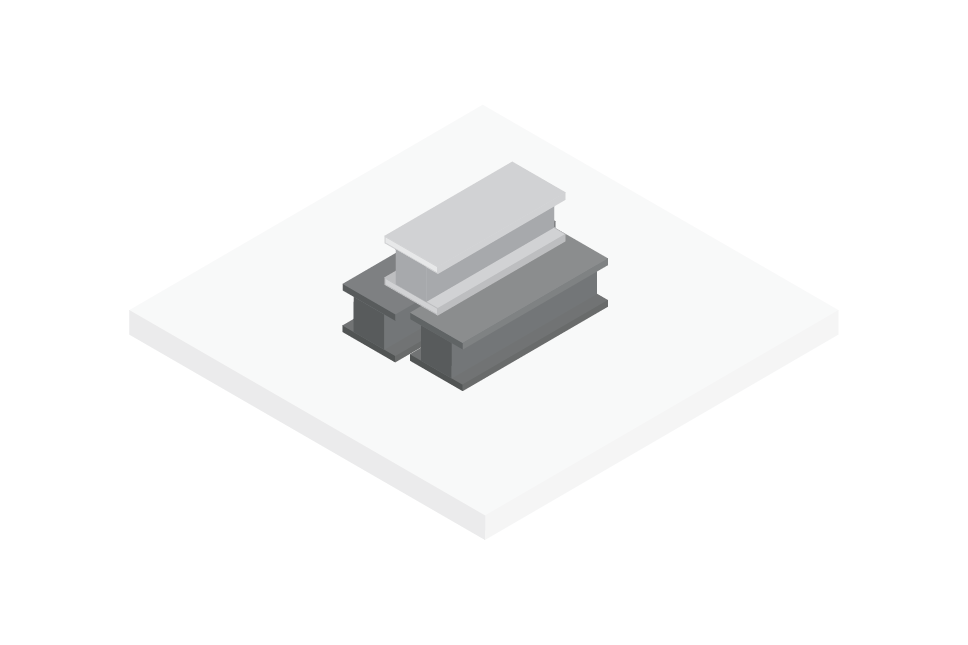
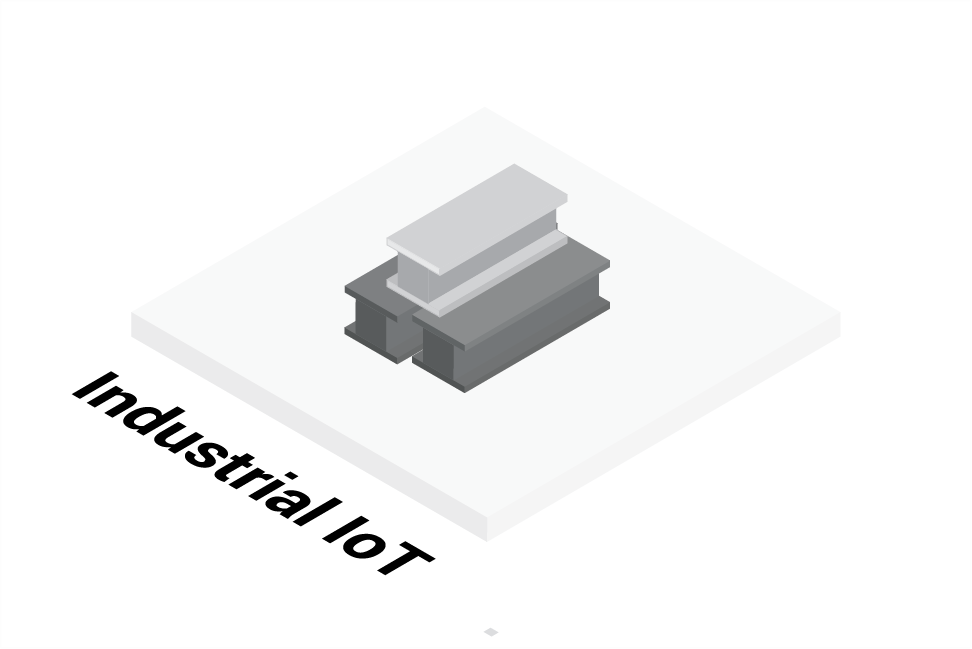
added titles to use case images

Changed region(s): [[0.062, 0.5581, 0.4649, 0.8992], [0.4959, 0.9612, 0.5269, 0.9922]]

diff --git a/contact.html b/contact.html
@@ -50,6 +50,16 @@
         <script src="https://ajax.googleapis.com/ajax/libs/jquery/3.3.1/jquery.min.js"></script>
 
         <!-- / Google Analytics -->
+        <!-- Global site tag (gtag.js) - Google Analytics -->
+        <script async src="https://www.googletagmanager.com/gtag/js?id=UA-116124827-1"></script>
+        <script>
+          window.dataLayer = window.dataLayer || [];
+          function gtag(){dataLayer.push(arguments);}
+          gtag('js', new Date());
+
+          gtag('config', 'UA-116124827-1');
+        </script>
+
     </head>
     <!-- END HEAD -->
 

diff --git a/faq.html b/faq.html
@@ -50,6 +50,16 @@
         <script src="https://ajax.googleapis.com/ajax/libs/jquery/3.3.1/jquery.min.js"></script>
 
         <!-- / Google Analytics -->
+        <!-- Global site tag (gtag.js) - Google Analytics -->
+        <script async src="https://www.googletagmanager.com/gtag/js?id=UA-116124827-1"></script>
+        <script>
+          window.dataLayer = window.dataLayer || [];
+          function gtag(){dataLayer.push(arguments);}
+          gtag('js', new Date());
+
+          gtag('config', 'UA-116124827-1');
+        </script>
+
     </head>
     <!-- END HEAD -->
 

diff --git a/index.html b/index.html
@@ -46,6 +46,16 @@
         <script src="https://ajax.googleapis.com/ajax/libs/jquery/3.3.1/jquery.min.js"></script>
 
         <!-- / Google Analytics -->
+        <!-- Global site tag (gtag.js) - Google Analytics -->
+        <script async src="https://www.googletagmanager.com/gtag/js?id=UA-116124827-1"></script>
+        <script>
+          window.dataLayer = window.dataLayer || [];
+          function gtag(){dataLayer.push(arguments);}
+          gtag('js', new Date());
+
+          gtag('config', 'UA-116124827-1');
+        </script>
+
     </head>
     <!-- END HEAD -->
 

diff --git a/not-found-page.html b/not-found-page.html
@@ -46,6 +46,16 @@
         <script src="https://ajax.googleapis.com/ajax/libs/jquery/3.3.1/jquery.min.js"></script>
 
         <!-- / Google Analytics -->
+        <!-- Global site tag (gtag.js) - Google Analytics -->
+        <script async src="https://www.googletagmanager.com/gtag/js?id=UA-116124827-1"></script>
+        <script>
+          window.dataLayer = window.dataLayer || [];
+          function gtag(){dataLayer.push(arguments);}
+          gtag('js', new Date());
+
+          gtag('config', 'UA-116124827-1');
+        </script>
+
     </head>
     <!-- END HEAD -->
 

diff --git a/resources.html b/resources.html
@@ -50,6 +50,16 @@
         <script src="https://ajax.googleapis.com/ajax/libs/jquery/3.3.1/jquery.min.js"></script>
 
         <!-- / Google Analytics -->
+        <!-- Global site tag (gtag.js) - Google Analytics -->
+        <script async src="https://www.googletagmanager.com/gtag/js?id=UA-116124827-1"></script>
+        <script>
+          window.dataLayer = window.dataLayer || [];
+          function gtag(){dataLayer.push(arguments);}
+          gtag('js', new Date());
+
+          gtag('config', 'UA-116124827-1');
+        </script>
+
     </head>
     <!-- END HEAD -->
 

diff --git a/team.html b/team.html
@@ -50,6 +50,16 @@
         <script src="https://ajax.googleapis.com/ajax/libs/jquery/3.3.1/jquery.min.js"></script>
 
         <!-- / Google Analytics -->
+        <!-- Global site tag (gtag.js) - Google Analytics -->
+        <script async src="https://www.googletagmanager.com/gtag/js?id=UA-116124827-1"></script>
+        <script>
+          window.dataLayer = window.dataLayer || [];
+          function gtag(){dataLayer.push(arguments);}
+          gtag('js', new Date());
+
+          gtag('config', 'UA-116124827-1');
+        </script>
+
     </head>
     <!-- END HEAD -->
 

diff --git a/technology.html b/technology.html
@@ -50,6 +50,16 @@
         <script src="https://ajax.googleapis.com/ajax/libs/jquery/3.3.1/jquery.min.js"></script>
 
         <!-- / Google Analytics -->
+        <!-- Global site tag (gtag.js) - Google Analytics -->
+        <script async src="https://www.googletagmanager.com/gtag/js?id=UA-116124827-1"></script>
+        <script>
+          window.dataLayer = window.dataLayer || [];
+          function gtag(){dataLayer.push(arguments);}
+          gtag('js', new Date());
+
+          gtag('config', 'UA-116124827-1');
+        </script>
+
     </head>
     <!-- END HEAD -->
 

diff --git a/token.html b/token.html
@@ -50,6 +50,16 @@
         <script src="https://ajax.googleapis.com/ajax/libs/jquery/3.3.1/jquery.min.js"></script>
 
         <!-- / Google Analytics -->
+        <!-- Global site tag (gtag.js) - Google Analytics -->
+        <script async src="https://www.googletagmanager.com/gtag/js?id=UA-116124827-1"></script>
+        <script>
+          window.dataLayer = window.dataLayer || [];
+          function gtag(){dataLayer.push(arguments);}
+          gtag('js', new Date());
+
+          gtag('config', 'UA-116124827-1');
+        </script>
+
     </head>
     <!-- END HEAD -->
 
